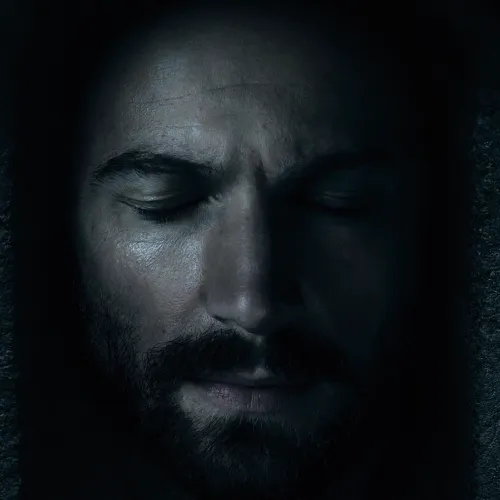
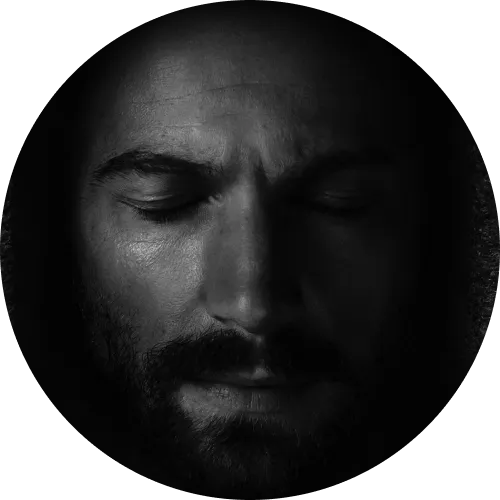
add new background picture

diff --git a/frontend-react-ts-vite/src/components/ui/ScrollHint.tsx b/frontend-react-ts-vite/src/components/ui/ScrollHint.tsx
@@ -1,0 +1,44 @@
+import React, { useEffect, useState } from "react";
+import { motion } from "framer-motion";
+
+const ScrollHint: React.FC = () => {
+    const [isVisible, setIsVisible] = useState(true);
+
+    useEffect(() => {
+        const handleScroll = () => {
+            if (window.scrollY > window.innerHeight / 8) {
+                setIsVisible(false);
+            } else {
+                setIsVisible(true);
+            }
+        };
+
+        window.addEventListener("scroll", handleScroll);
+        return () => window.removeEventListener("scroll", handleScroll);
+    }, []);
+
+    return (
+        <motion.div
+            className="absolute bottom-12 flex flex-col items-center justify-center"
+            initial={{ opacity: 1 }}
+            animate={{ opacity: isVisible ? 1 : 0 }}
+            transition={{ duration: 0.4 }}
+        >
+            <svg
+                viewBox="0 0 41 60"
+                fill="none"
+                xmlns="http://www.w3.org/2000/svg"
+                className="w-8 h-12 text-neutral-200"
+            >
+                <path
+                    d="M20.453 0c0 19.655-3.53 19.785-6.904 20.56-3.566.82-3.737-3.232 0-3.232 2.232 0 8.513 4.655 12.51 5.301 3.574.578 3.789-3.491 0-3.491-7.838 0-8.98 15.148-17.805 19.526-8.824 4.378-10.485-7.242 0-7.242 7.838 0 16.351 5.69 25.175 9.44 8.801 3.74 8.72-7.5 0-7.5S20.453 48.88 20.453 60"
+                    stroke="#A3A3A3"
+                    strokeWidth="1.5"
+                />
+            </svg>
+            <div className="scroll-hint text-neutral-400 font-serif mt-2">Scroll</div>
+        </motion.div>
+    );
+};
+
+export default ScrollHint;

diff --git a/frontend-react-ts-vite/src/components/ui/BackButton.tsx b/frontend-react-ts-vite/src/components/ui/BackButton.tsx
@@ -1,0 +1,38 @@
+import React, {useRef} from "react";
+import {motion, useInView} from "framer-motion";
+
+const BackButton: React.FC = () => {
+    const ref = useRef(null);
+    const isVisible = useInView(ref)
+
+    return (
+        <motion.div ref={ref}
+            initial={{ opacity: 0 }}
+            animate={{ opacity: isVisible ? 1 : 0 }}
+            transition={{ duration: 0.8 }}
+            className="fixed top-4 left-4 md:top-8 md:left-8 xl:top-10 xl:left-10 z-50"
+        >
+            <a
+                href="/"
+                className="flex items-center justify-center w-10 h-10 bg-transparent mix-blend-hue border border-neutral-700 rounded-full"
+                aria-label="Click to go back to the search box"
+            >
+                <svg
+                    className="w-4 h-4 text-neutral-200"
+                    xmlns="http://www.w3.org/2000/svg"
+                    viewBox="0 0 15.5 8.1"
+                >
+                    <path
+                        className="st0"
+                        d="M0 4l4-4M0 4l4 4M0 4h15.5"
+                        fill="none"
+                        stroke="currentColor"
+                        strokeWidth="1"
+                    />
+                </svg>
+            </a>
+        </motion.div>
+    );
+};
+
+export default BackButton;

diff --git a/frontend-react-ts-vite/src/components/HouseName.tsx b/frontend-react-ts-vite/src/components/HouseName.tsx
@@ -1,5 +1,6 @@
 import React from "react";
 import { TextGenerateEffect } from "./ui/TextEffect";
+import ScrollHint from "./ui/ScrollHint.tsx";
 
 interface HouseNameProps {
   name: string;
@@ -14,7 +15,7 @@ const HouseName: React.FC<HouseNameProps> = ({ name, word }) => {
         alt="sigil of the house - three headed iron dragon"
         className="opacity-10 fixed"
       />
-      <h1 className="font-got text-2xl md:text-3xl lg:text-4xl xl:text-5xl text-center text-neutral-300">{name}</h1>
+      <h1 className="font-got text-2xl md:text-3xl lg:text-4xl xl:text-5xl text-center text-neutral-200">{name}</h1>
       <div className="w-[40rem] h-1 relative">
         {/* Gradients */}
         <div className="absolute inset-x-20 top-0 bg-gradient-to-r from-transparent via-red-600 to-transparent h-[2px] w-3/4 blur-sm" />
@@ -23,6 +24,7 @@ const HouseName: React.FC<HouseNameProps> = ({ name, word }) => {
         <div className="absolute inset-x-60 top-0 bg-gradient-to-r from-transparent via-red-600 to-transparent h-px w-1/4" />
       </div>
       <TextGenerateEffect duration={1} words={`"${word}"`} />
+        <ScrollHint/>
     </div>
   );
 };

diff --git a/frontend-react-ts-vite/src/components/HouseList.tsx b/frontend-react-ts-vite/src/components/HouseList.tsx
@@ -27,8 +27,8 @@ const HouseList: React.FC = () => {
   };
 
   return (
-    <div className="min-h-screen bg-home bg-cover bg-no-repeat bg-center relative">
-      <div className="min-h-screen w-full flex flex-col items-center pt-40 space-y-5 bg-gradient-to-t from-[#000000] to-100% p-7 sm:p-12 z-10 relative">
+    <div className="min-h-screen bg-small md:bg-medium lg:bg-large bg-cover bg-no-repeat bg-center relative">
+      <div className="min-h-screen w-full flex flex-col items-center pt-40 space-y-5 bg-gradient-to-b from-[#000000] to-100% p-7 sm:p-12 z-10 relative">
         <div className="flex flex-col justify-center items-center w-full h-full py-4">
           <h1 className="text-5xl sm:text-7xl md:text-8xl lg:text-9xl xl:text- text-center text-pretty font-got text-slate-50">
             Game of Thrones

diff --git a/frontend-react-ts-vite/src/components/HouseDetails.tsx b/frontend-react-ts-vite/src/components/HouseDetails.tsx
@@ -7,6 +7,7 @@ import HouseName from "./HouseName";
 import HouseMembers from "./HouseMembers";
 import InfoTable from "./InfoTable";
 import HouseLeadership from "./HouseLeadership.tsx";
+import BackButton from "./ui/BackButton.tsx";
 
 const HouseDetails: React.FC = () => {
   const { id } = useParams<{ id: string }>();
@@ -52,6 +53,7 @@ const HouseDetails: React.FC = () => {
           <span className="relative z-20">Back to search</span>
         </a>
       </div>
+        <BackButton/>
     </div>
   );
 };

diff --git a/frontend-react-ts-vite/src/components/ui/TextEffect.tsx b/frontend-react-ts-vite/src/components/ui/TextEffect.tsx
@@ -37,7 +37,7 @@ export const TextGenerateEffect = ({
           return (
             <motion.span
               key={word + idx}
-              className="text-neutral-400 opacity-0"
+              className="text-neutral-300 opacity-0"
               style={{
                 filter: filter ? "blur(10px)" : "none",
               }}

diff --git a/frontend-react-ts-vite/tailwind.config.js b/frontend-react-ts-vite/tailwind.config.js
@@ -8,7 +8,9 @@ module.exports = {
   theme: {
     extend: {
       backgroundImage: {
-        home: "url('/dragon-eye.webp')",
+        small: "url('/dragon-cellphone.webp')",
+        medium: "url('/dragon-tablet.webp')",
+        large: "url('/dragon.webp')"
       },
       fontFamily: {
         got: ["Game of Thrones", "serif"],

diff --git a/frontend-react-ts-vite/src/index.css b/frontend-react-ts-vite/src/index.css
@@ -15,3 +15,10 @@
 :root {
   background-color: #181818;
 }
+
+.scroll-hint {
+  text-align: center;
+  font-size: 1rem;
+  opacity: 1;
+  transition: opacity 0.5s ease-in-out;
+}
